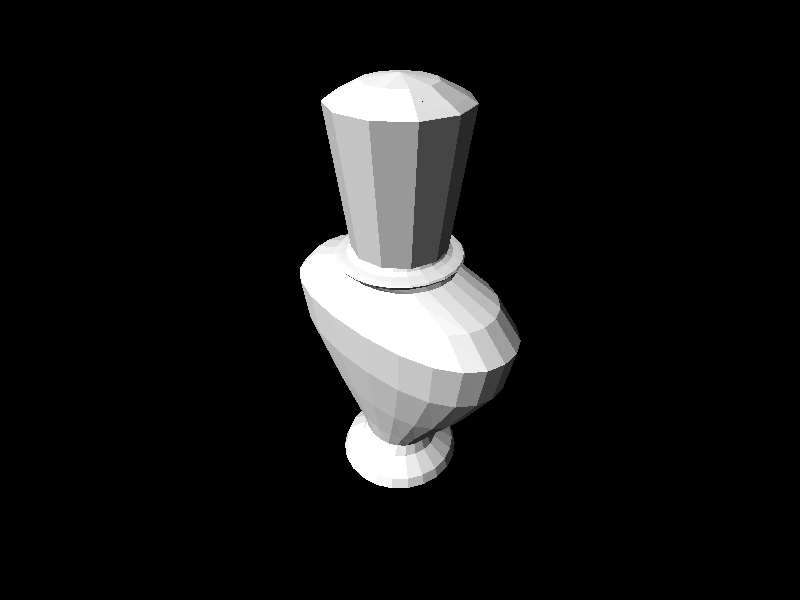
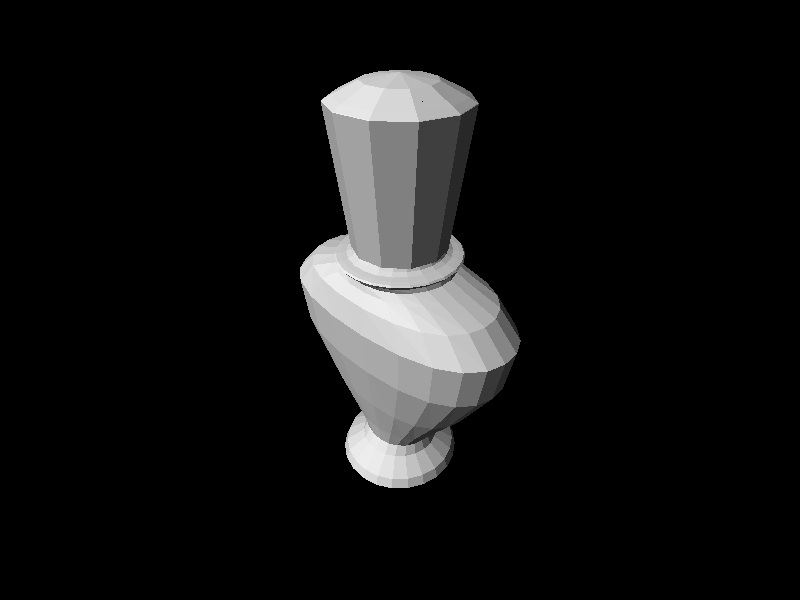
examples/render: add better messages and soften light

Changed region(s): [[0.375, 0.12, 0.6562, 0.81]]

diff --git a/examples/render.cpp b/examples/render.cpp
@@ -50,6 +50,8 @@ int main(int argc, char* argv[]) {
             std::cerr << argv[1] << ": cannot open file for reading: " << strerror(errno) << std::endl;
             return -1;
         }
+    } else {
+        std::cerr << "No file specified, reading from stdin" << std::endl;
     }
 
     using frac_ms = std::chrono::duration<float, std::milli>;
@@ -69,7 +71,7 @@ int main(int argc, char* argv[]) {
         return -1;
     }
 
-    std::cout << "Model loaded in "
+    std::cerr << "Model loaded in "
               << std::chrono::duration_cast<frac_ms>(end - start).count() << " ms\n"
               << "Face count: " << model.size() << '\n'
               << "Bounding box: { " << model.boundingBox().from << ", " << model.boundingBox().to << " }\n"
@@ -83,14 +85,16 @@ int main(int argc, char* argv[]) {
     img.clear(Color(0, 0, 0, 255));
 
     // Precalculate useful values
-    auto aspect = float(img.width) / float(img.height);
-    auto diagonal = glm::abs(model.boundingBox().to - model.boundingBox().from);
+    float aspect = float(img.width) / float(img.height);
+    glm::vec3 diagonal = glm::abs(model.boundingBox().to - model.boundingBox().from);
     float maxDim = glm::max(diagonal.x, glm::max(diagonal.y, diagonal.z));
 
+    // Stop the compiler from complaining when orthographic projection
+    // is commented out
     (void)aspect; (void)maxDim;
 
-    // With the center of the bounding box as origin,
-    // place camera at (r=|diagonal|, theta=45deg, phi=45deg).
+    // Use the center of the bounding box as origin.
+    // Place camera at (r=|diagonal|, theta=45deg, phi=45deg).
     // Look into the center of the bounding box.
     Camera view(
         model.center() + glm::length(diagonal)*glm::normalize(glm::vec3(1.0f, 1.0f, 1.0f)),
@@ -112,15 +116,15 @@ int main(int argc, char* argv[]) {
 
     start = std::chrono::high_resolution_clock::now();
 
-    size_t count = render(img, model, view, proj,
+    size_t count = rendirt::render(img, model, view, proj,
         // shaders::depth);
         // shaders::position(model.boundingBox()));
         // shaders::normal);
-        shaders::diffuseDirectional(glm::vec3(0.0f, -1.0f, -1.0f), Color(40, 40, 40, 255), Color(255, 255, 255, 255)));
+        shaders::diffuseDirectional(glm::vec3(0.0f, -1.0f, -1.0f), Color(40, 40, 40, 255), Color(200, 200, 200, 255)));
 
     end = std::chrono::high_resolution_clock::now();
 
-    std::cout << "Rendering completed in "
+    std::cerr << "Rendering completed in "
               << std::chrono::duration_cast<frac_ms>(end - start).count() << " ms\n"
               << "Resolution: " << img.width << "x" << img.height << " px\n"
               << "Rasterized faces: " << count
@@ -144,6 +148,9 @@ int main(int argc, char* argv[]) {
         std::cerr << "./render.tiff: write failed: " << strerror(errno) << std::endl;
         return -1;
     }
+
+    output.close();
+    std::cerr << "Image saved to ./render.tiff" << std::endl;
 
     return 0;
 }
